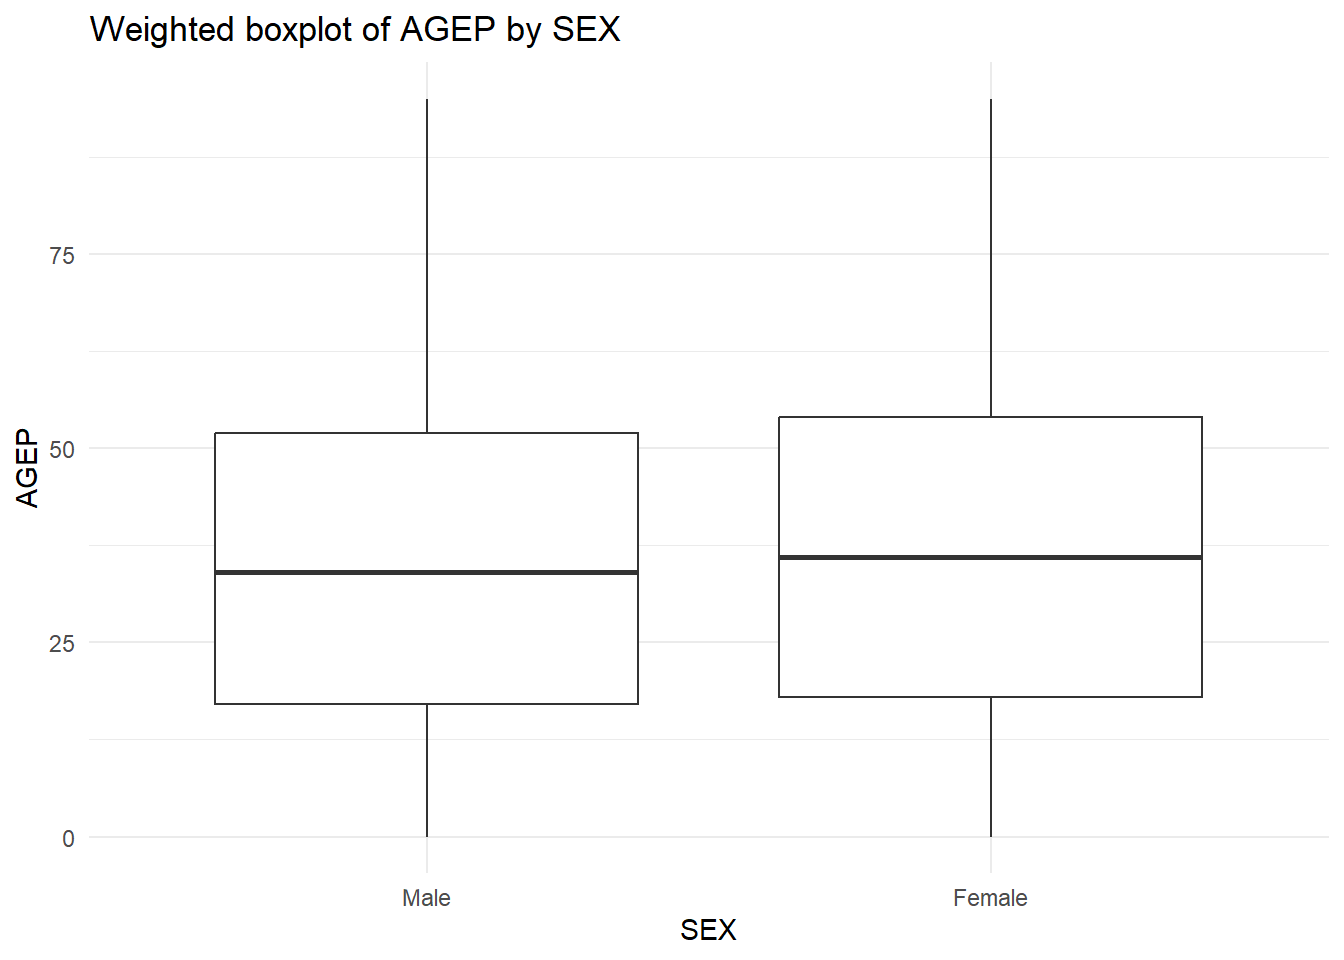
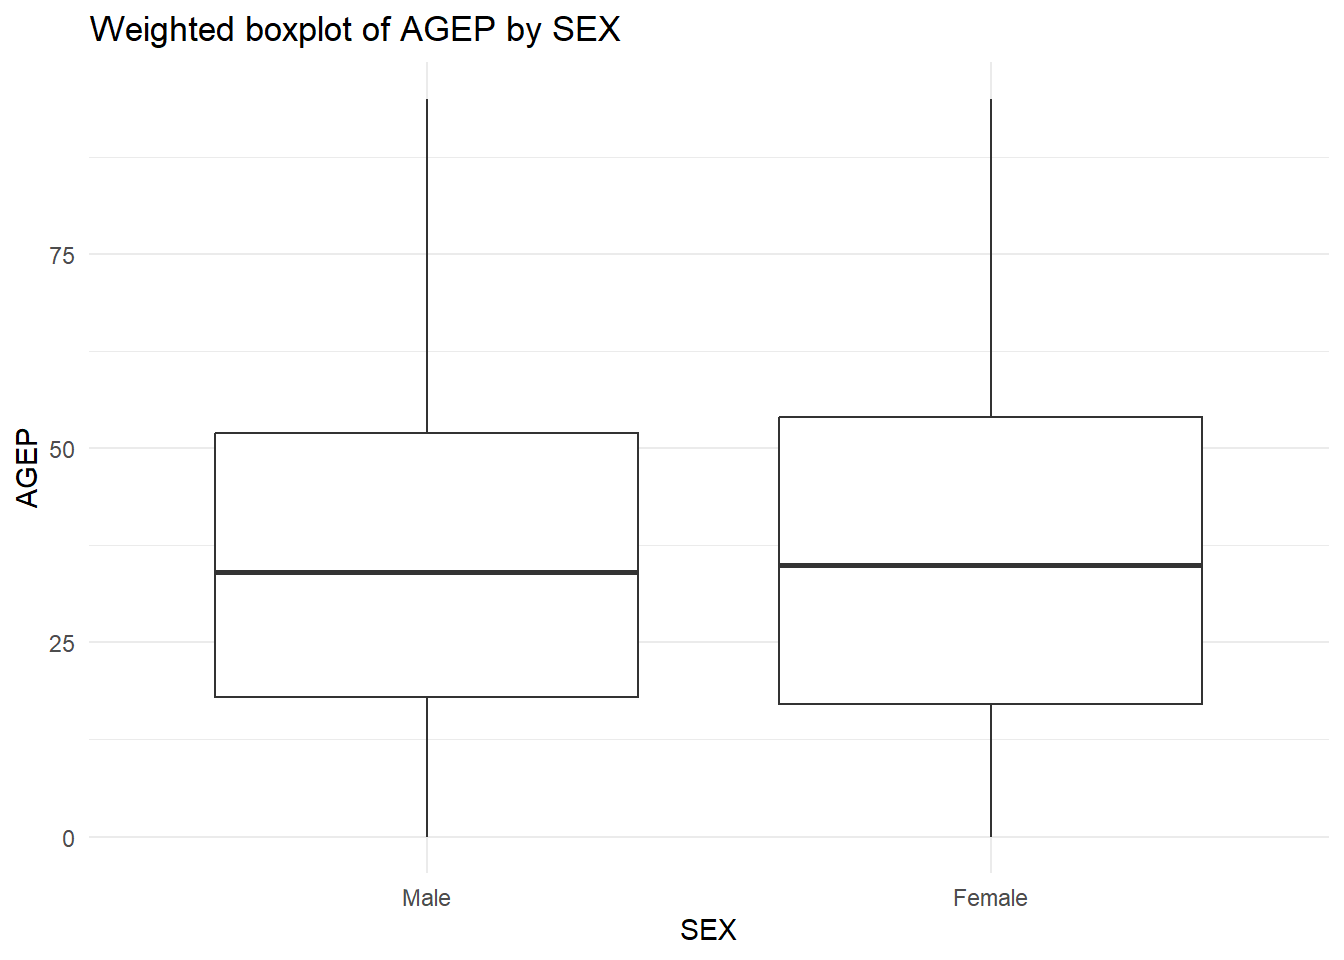
Update descriptive informaiton

Changed region(s): [[0.5625, 0.5625, 0.9062, 0.5938], [0.1562, 0.7188, 0.4688, 0.75], [0.5938, 0.7188, 0.875, 0.75]]

diff --git a/docs/Project.html b/docs/Project.html
@@ -150,7 +150,7 @@ The following object is masked from 'package:purrr':
 <h1>Data Processing</h1>
 <section id="getting-the-usual-process-to-work-with-a-given-url-and-turn-the-returned-info-into-a-nice-tibble." class="level2">
 <h2 class="anchored" data-anchor-id="getting-the-usual-process-to-work-with-a-given-url-and-turn-the-returned-info-into-a-nice-tibble.">1.Getting the usual process to work with a given URL and turn the returned info into a nice tibble.</h2>
-<p>To start any work of data, we need to get the data first. As we want to use API data, it would be nice if the data can be converted to tibble format. To bring in data, we need to build the URL first, and use GET() function to contact the website, then parse the returned data, finally put it into a tibble. Note, it is possible the process failed, thus, it would be safer if we add the option which is ‘fail to access the data’.Based on the information from Google,</p>
+<p>To start any work of data, we need to get the data first. As we want to use API data, it would be nice if the data can be converted to tibble format. To bring in data, we need to build the URL first, and use GET() function to contact the website, then parse the returned data, finally put it into a tibble. Note, it is possible the process failed, thus, it would be safer if we add the option which is ‘fail to access the data’.Based on the information from Google,when status_code return 200, it is failed.</p>
 <p>After get the returned data, I need to make it to a nice tibble format, however, remember that the first row that returned is not the data or the column name. Thus, we need to removed the first row for the output.I also use drop=False to keep the result as a table and not simplify it into a vector. After this step, we already exclude everything we don’t want so far.The last step is that give the data the column names. And the we should be good to get teh tibble table data by API now.</p>
 <div class="cell">
 <div class="sourceCode cell-code" id="cb2"><pre class="sourceCode r code-with-copy"><code class="sourceCode r"><span id="cb2-1"><a href="#cb2-1" aria-hidden="true" tabindex="-1"></a>data_to_tibble <span class="ot">&lt;-</span> <span class="cf">function</span>(url) {</span>
@@ -191,7 +191,7 @@ The following object is masked from 'package:purrr':
 </section>
 <section id="specify-the-numeric-variables-to-be-returned-agep-and-pwgtp-as-default.-pwgtp-should-always-be-returned" class="level2">
 <h2 class="anchored" data-anchor-id="specify-the-numeric-variables-to-be-returned-agep-and-pwgtp-as-default.-pwgtp-should-always-be-returned">3.Specify the numeric variables to be returned (AGEP and PWGTP as default). PWGTP should always be returned</h2>
-<p>For the time variables, my strategy is to convert them directly to the minutes in a day. There can be 60*24=1440 minutes in a day.</p>
+<p>For the time variables, my strategy is to convert them directly to the minutes in a day. There can be 60*24=1440 minutes in a day. But this is only for the JWAP, the JWDP is kind of a mix, it mix different pattern, different time interval, thus, I decide to manually map the JWDP variable.</p>
 <div class="cell">
 <div class="sourceCode cell-code" id="cb4"><pre class="sourceCode r code-with-copy"><code class="sourceCode r"><span id="cb4-1"><a href="#cb4-1" aria-hidden="true" tabindex="-1"></a><span class="co"># create mapping label for use first. Tii many different pattern,, I decide to do this mannuly </span></span>
 <span id="cb4-2"><a href="#cb4-2" aria-hidden="true" tabindex="-1"></a>jwdp_map<span class="ot">&lt;-</span> <span class="fu">c</span>(</span>
@@ -419,6 +419,7 @@ The following object is masked from 'package:purrr':
 </section>
 <section id="specify-the-categorical-variables-to-be-returned-sex-as-default." class="level2">
 <h2 class="anchored" data-anchor-id="specify-the-categorical-variables-to-be-returned-sex-as-default.">4. Specify the categorical variables to be returned (SEX as default).</h2>
+<p>There are several variables pointed by the instruction, each variable has different levels, for SCHL, it has a great number of factor levels, and I will point these out one by one.</p>
 <div class="cell">
 <div class="sourceCode cell-code" id="cb6"><pre class="sourceCode r code-with-copy"><code class="sourceCode r"><span id="cb6-1"><a href="#cb6-1" aria-hidden="true" tabindex="-1"></a>process_categorical_vars <span class="ot">&lt;-</span> <span class="cf">function</span>(data, <span class="at">cat_vars =</span> <span class="st">"SEX"</span>) {</span>
 <span id="cb6-2"><a href="#cb6-2" aria-hidden="true" tabindex="-1"></a>  </span>
@@ -636,6 +637,7 @@ The following object is masked from 'package:purrr':
 </section>
 <section id="subset-the-data" class="level2">
 <h2 class="anchored" data-anchor-id="subset-the-data">6. Subset the data</h2>
+<p>To getting the state, region and division information, I need to use ST, DIVISION, and REGION variables. However, when I try to subset the data and try to run the example, I found I cannot use ST= ‘xx’ which is the number that represent for a state to extract data directly, this might because these variables are not allowed to use directly as predicates. The only option for me is to use ucgid. While I personally live in Maryland, I would take Maryland as an example state, and the state number is 24.</p>
 <div class="cell">
 <div class="sourceCode cell-code" id="cb8"><pre class="sourceCode r code-with-copy"><code class="sourceCode r"><span id="cb8-1"><a href="#cb8-1" aria-hidden="true" tabindex="-1"></a><span class="co"># I tried to use ST, DIVISITON, and REGION directly, but the API doesnt allowed me to use these variables directly as predicates, so we use ucgid for API-level subsetting.</span></span>
 <span id="cb8-2"><a href="#cb8-2" aria-hidden="true" tabindex="-1"></a>process_geo_subset <span class="ot">&lt;-</span> <span class="cf">function</span>(<span class="at">geography =</span> <span class="st">"ST"</span>, <span class="at">geo_values =</span> <span class="st">"24"</span>) {</span>
@@ -694,7 +696,7 @@ The following object is masked from 'package:purrr':
 </section>
 <section id="apply-these-small-function-into-1-main-function-for-query" class="level2">
 <h2 class="anchored" data-anchor-id="apply-these-small-function-into-1-main-function-for-query">7. Apply these small function into 1 main function for query</h2>
-<p>I put all the default information first</p>
+<p>I put all the default information first, and combine all the privious wrote small function together to query the data I truly need.</p>
 <div class="cell">
 <div class="sourceCode cell-code" id="cb9"><pre class="sourceCode r code-with-copy"><code class="sourceCode r"><span id="cb9-1"><a href="#cb9-1" aria-hidden="true" tabindex="-1"></a>get_pums_data <span class="ot">&lt;-</span> <span class="cf">function</span>(<span class="at">year =</span> <span class="dv">2022</span>,</span>
 <span id="cb9-2"><a href="#cb9-2" aria-hidden="true" tabindex="-1"></a>                          <span class="at">num_vars =</span> <span class="fu">c</span>(<span class="st">"AGEP"</span>, <span class="st">"PWGTP"</span>),</span>